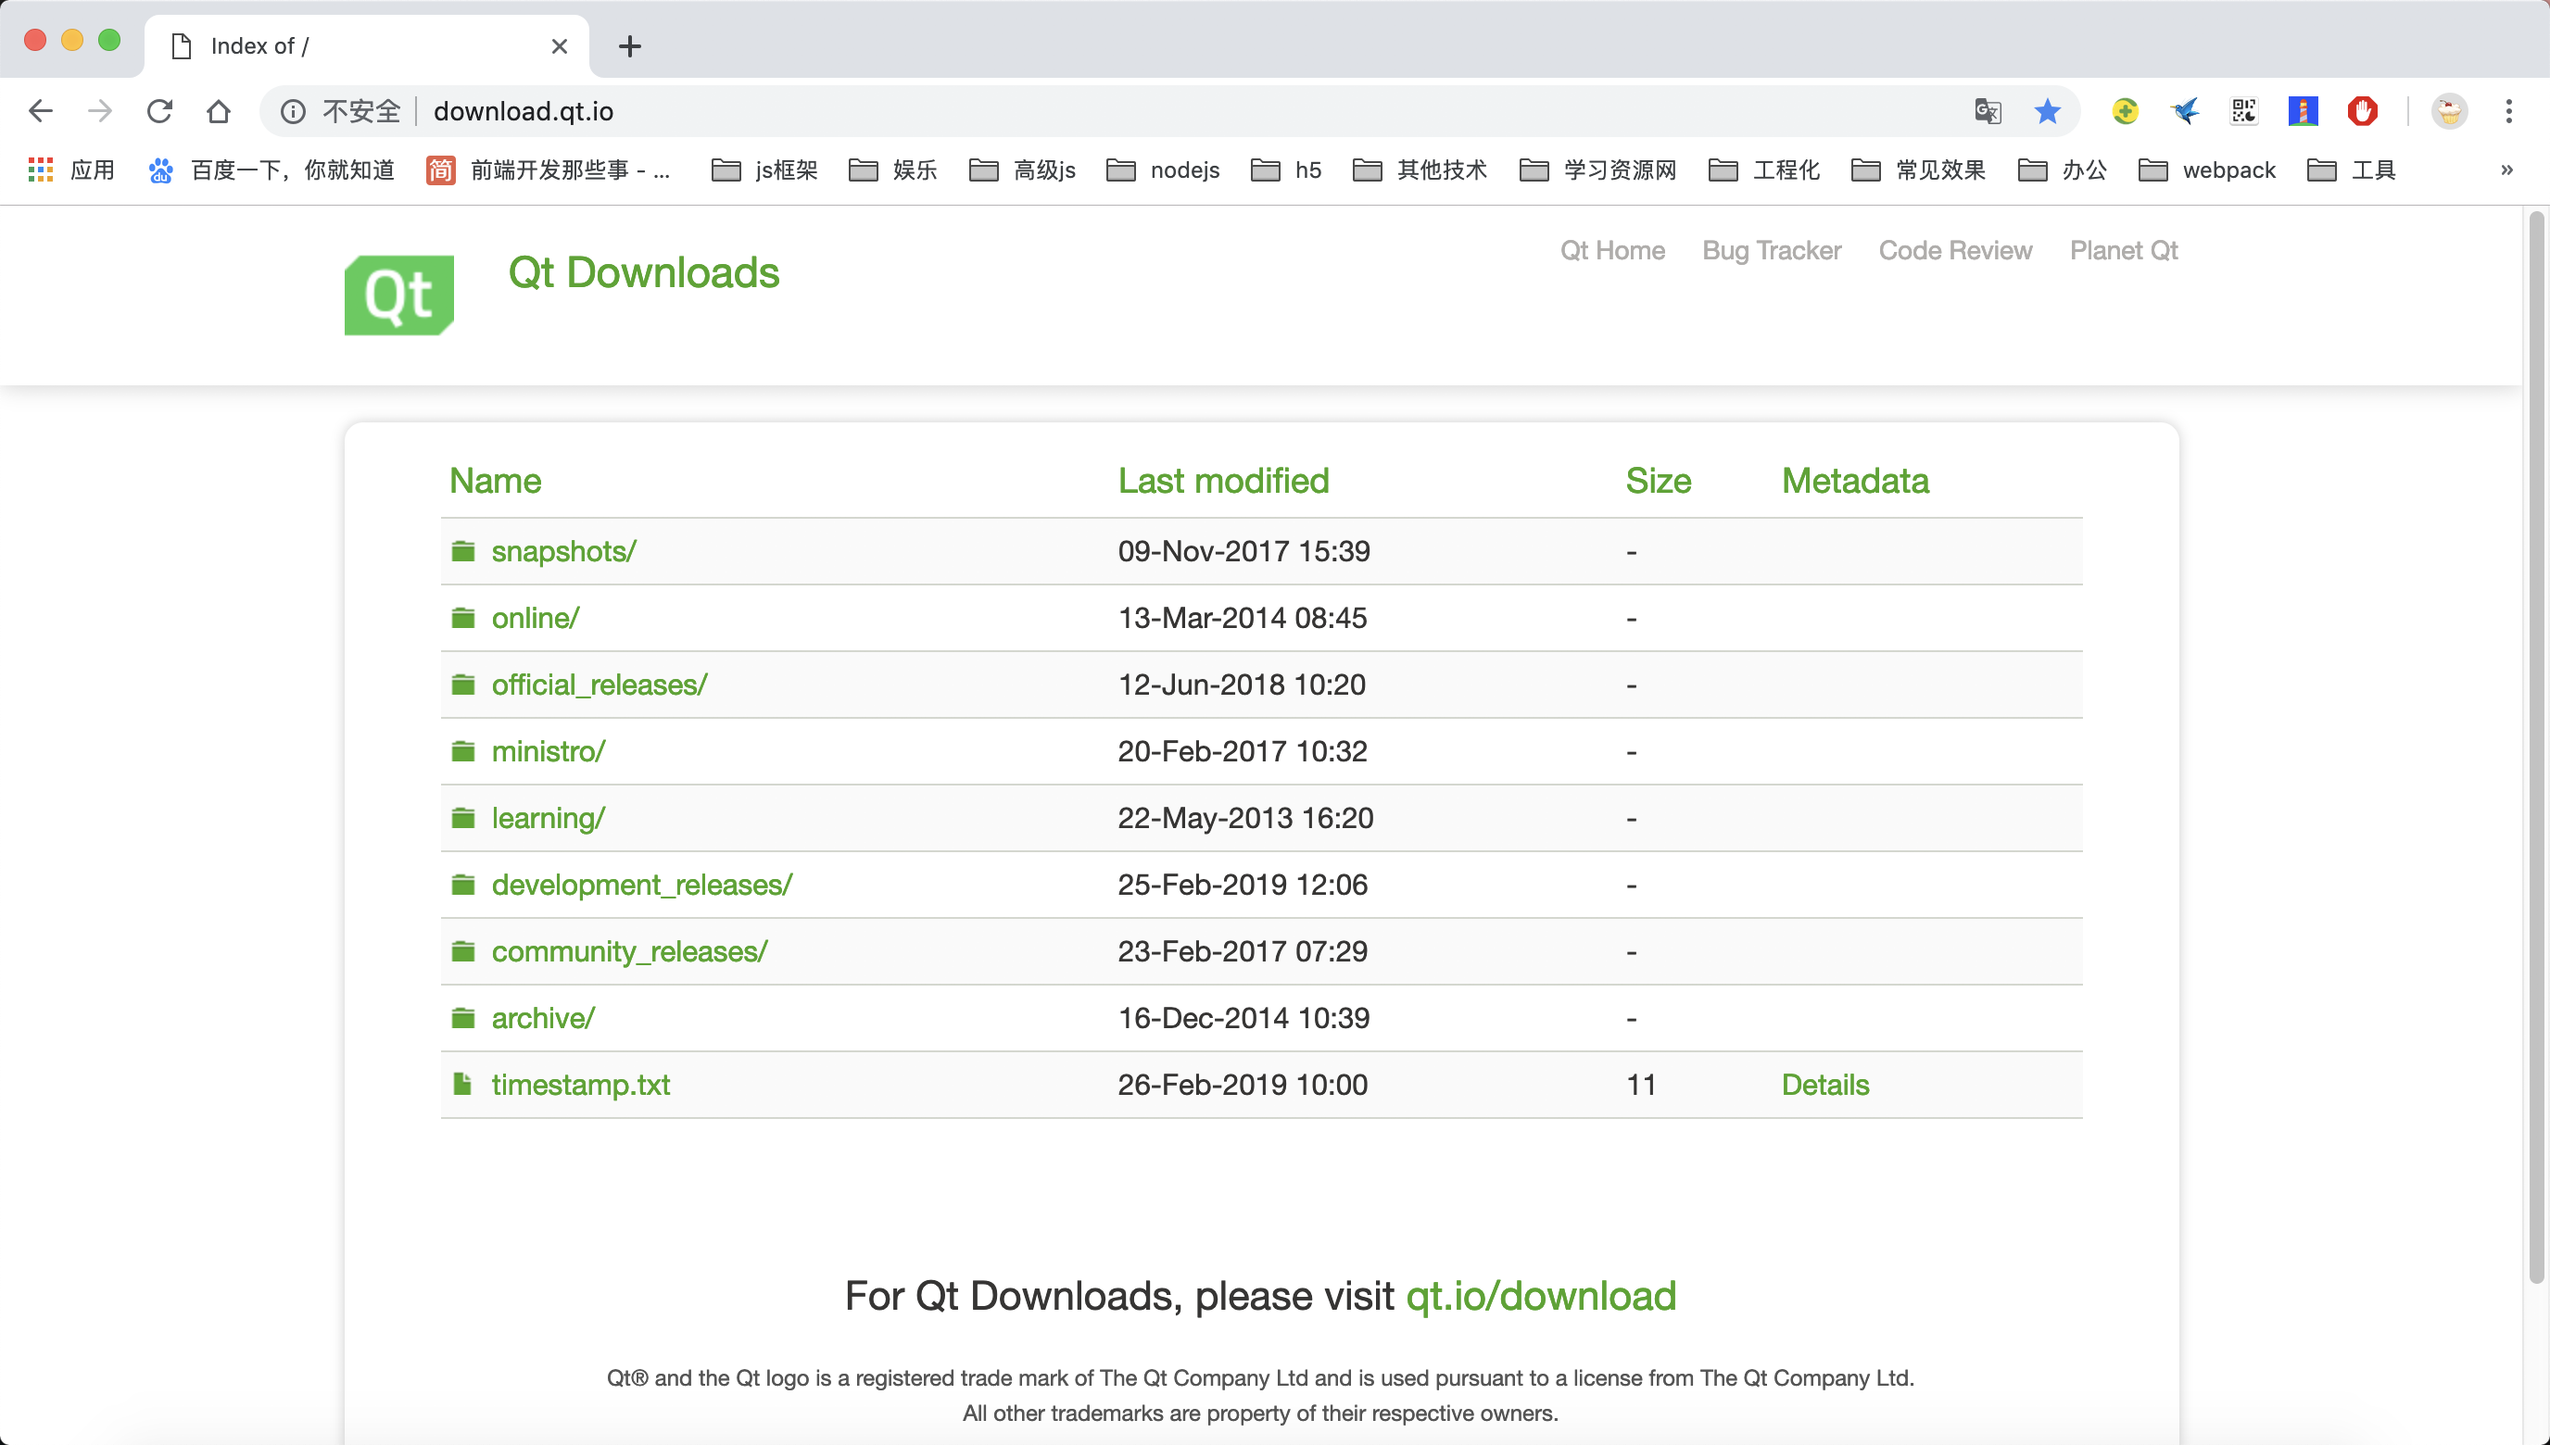
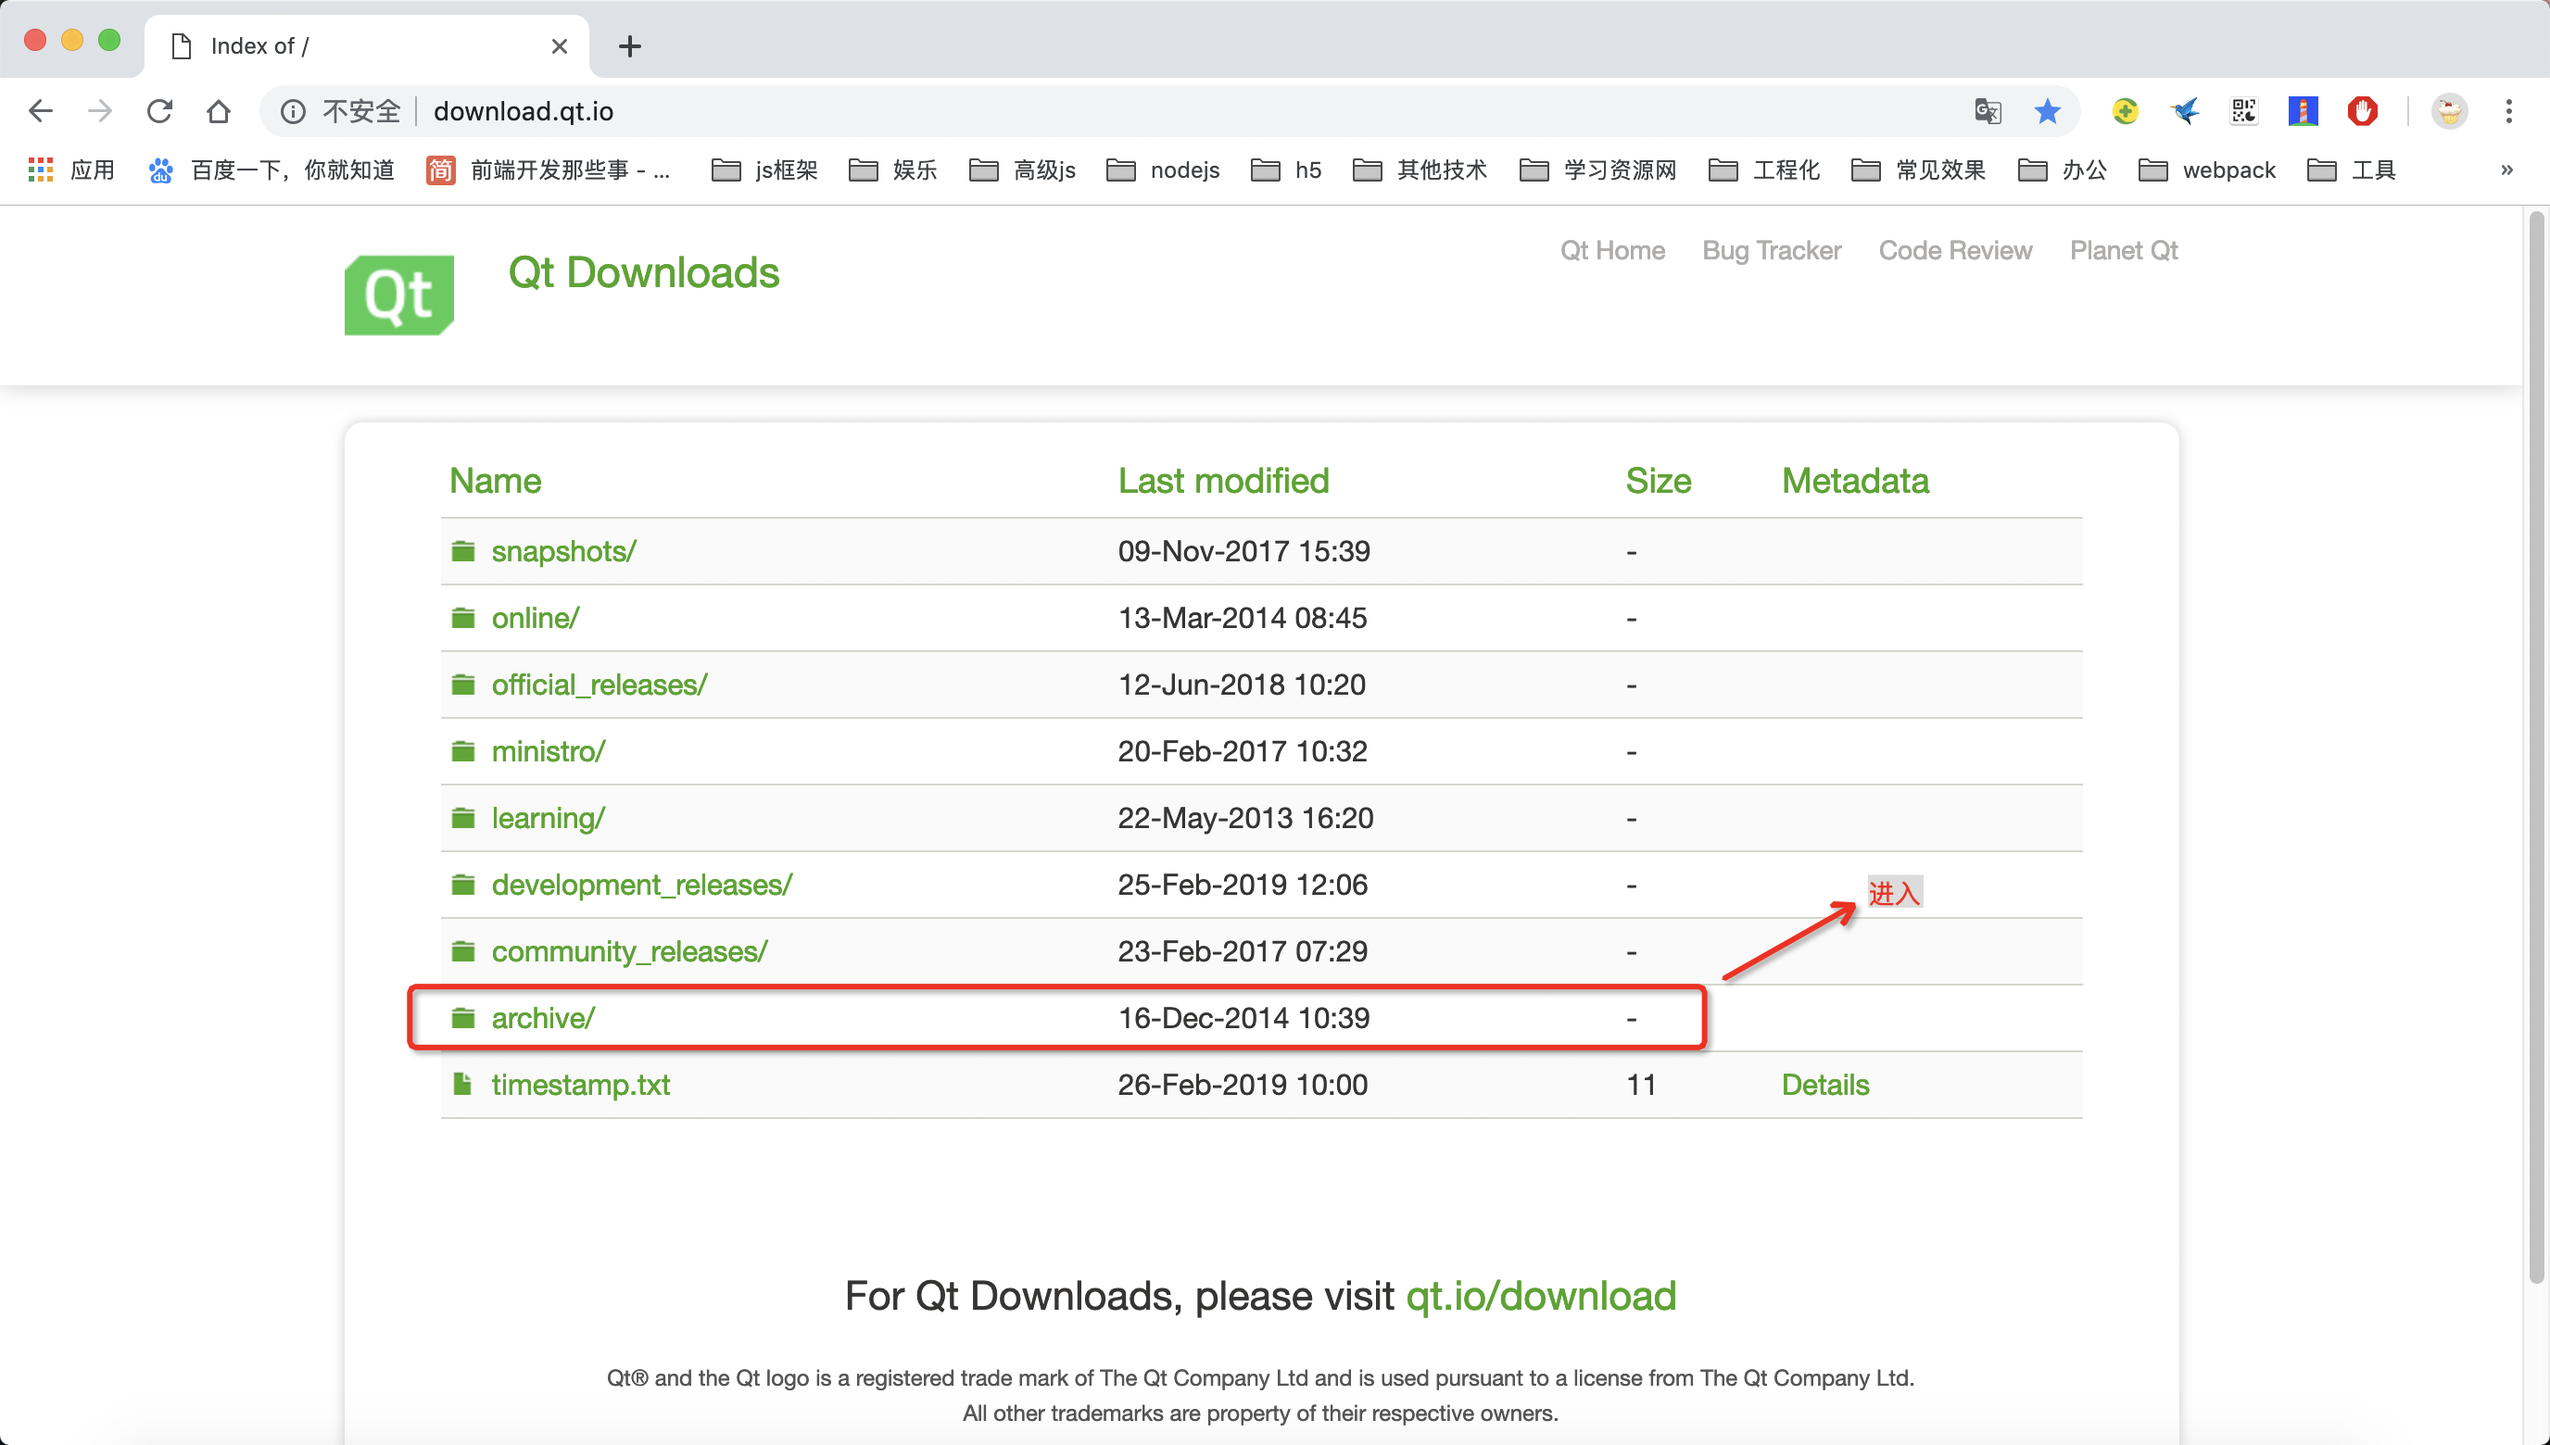
test

Changed region(s): [[0.1562, 0.6769, 0.6875, 0.7385], [0.7188, 0.5846, 0.75, 0.6462], [0.6875, 0.6462, 0.7188, 0.6769]]

diff --git a/docment/细节分支/1.下载安装QT.md b/docment/细节分支/1.下载安装QT.md
@@ -3,6 +3,16 @@
 
 > [http://download.qt.io/](下载网址)
 
-打开比较慢，需要耐心等待
+网站比较慢，需要耐心等待
 
 ![图一](../../image/detail/download0.png)
+
+> qtcreator是qt的ide，每个版本的qt都对应一个版本的qtcreator，因为我们这里下载的qt版本，会附带qtcreator，所以这里不用理会
+
+![图一](../../image/detail/download1.png)
+
+> 这里我选择下载5.9.6版本的，低版本的下载安装与这里介绍的版本有很大的不同，这里我就不详细介绍了，之所以这里选择5.9.6，是因为一开始我选择了5.12，后来在开发中，在使用qt quick的托盘组件时，发现无法正常唤起托盘，因本人能力有限，实在无法找到具体原因，在回退版本到5.9.6后发现一切都正常了，所以这里我选择我比较熟悉的5.9.6
+
+![图一](../../image/detail/download2.png)
+
+![图一](../../image/detail/download3.png)
